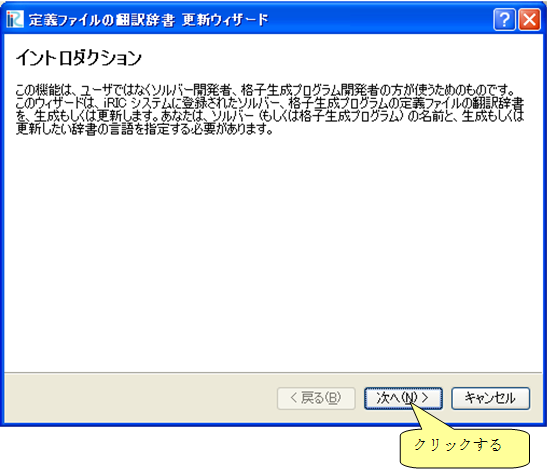
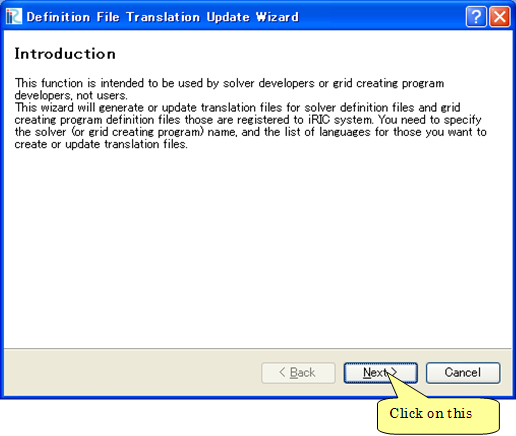
Developer manual updated.

Changed region(s): [[0.0, 0.0, 1.0, 1.0], [0.0, 0.1789, 0.9612, 0.3578]]

diff --git a/source/05/04/tab.rst b/source/05/04/tab.rst
@@ -1,40 +1,41 @@
 Tab
 ===
 
-計算条件 (もしくは格子生成条件) 設定ダイアログの、ページの定義情報を保持します。
+Tab element contains the information that defines a page of the
+calculation condition input dialog.
 
-例
-----
+Example
+-------
 
 .. code-block:: xml
-   :caption: Tab の定義例
+   :caption: Example of Tab definition
    :name: ref_tab_example
    :linenos:
 
    <Tab caption="Basic Setting">
      <Item name="stime" caption="Start Time">
 
-       (略)
+       (abbr.)
 
      </Item>
      <Item name="etime" caption="End Time">
 
-       (略)
+       (abbr.)
 
      </Item>
    </Tab>
 
-属性
------
+Attributes
+----------
 
-.. csv-table:: Tab の属性
+.. csv-table:: Attributes of Tab
    :file: tab_attributes.csv
    :header-rows: 1
 
-子要素
---------
+Child elements
+--------------
 
-.. csv-table:: Tab の子要素
+.. csv-table:: Child elements of Tab
    :file: tab_elements.csv
    :header-rows: 1
 

diff --git a/source/04/03_gridgenerator.rst b/source/04/03_gridgenerator.rst
@@ -27,14 +27,14 @@ generating program do against the grid generating data file.
    :file: gridgenerator_dev_flow.csv
    :header-rows: 1
 
+In this section, we will develop a grid generating program in
+the following procedure:
 
-この節では、格子生成プログラムを以下の手順で作成します。
-
-#. 骨組みの作成
-#. 格子生成データファイルを開く処理、閉じる処理の記述
-#. 格子の出力処理の記述
-#. 格子生成条件の読み込み処理の記述
-#. エラー処理の記述
+#. Create a scelton
+#. Adds grid generating data file opening and closing codes
+#. Adds codes to output grid
+#. Adds codes to load grid generating conditions
+#. Adds codes for error handling
 
 .. toctree::
    :maxdepth: 4

diff --git a/source/05/04/param.rst b/source/05/04/param.rst
@@ -19,7 +19,7 @@ Refer to :ref:`cc_widget_example_func` for Param element definition example.
 Attributes
 -----------
 
-.. csv-table:: Attributes of Param definition
+.. csv-table:: Attributes of Param
    :file: param_attributes.csv
    :header-rows: 1
 

diff --git a/source/05/04/groupbox.rst b/source/05/04/groupbox.rst
@@ -35,6 +35,6 @@ Attributes
 Child elements
 --------------
 
-.. csv-table:: Attributes of GroupBox
+.. csv-table:: Child elements of GroupBox
    :file: groupbox_elements.csv
    :header-rows: 1
